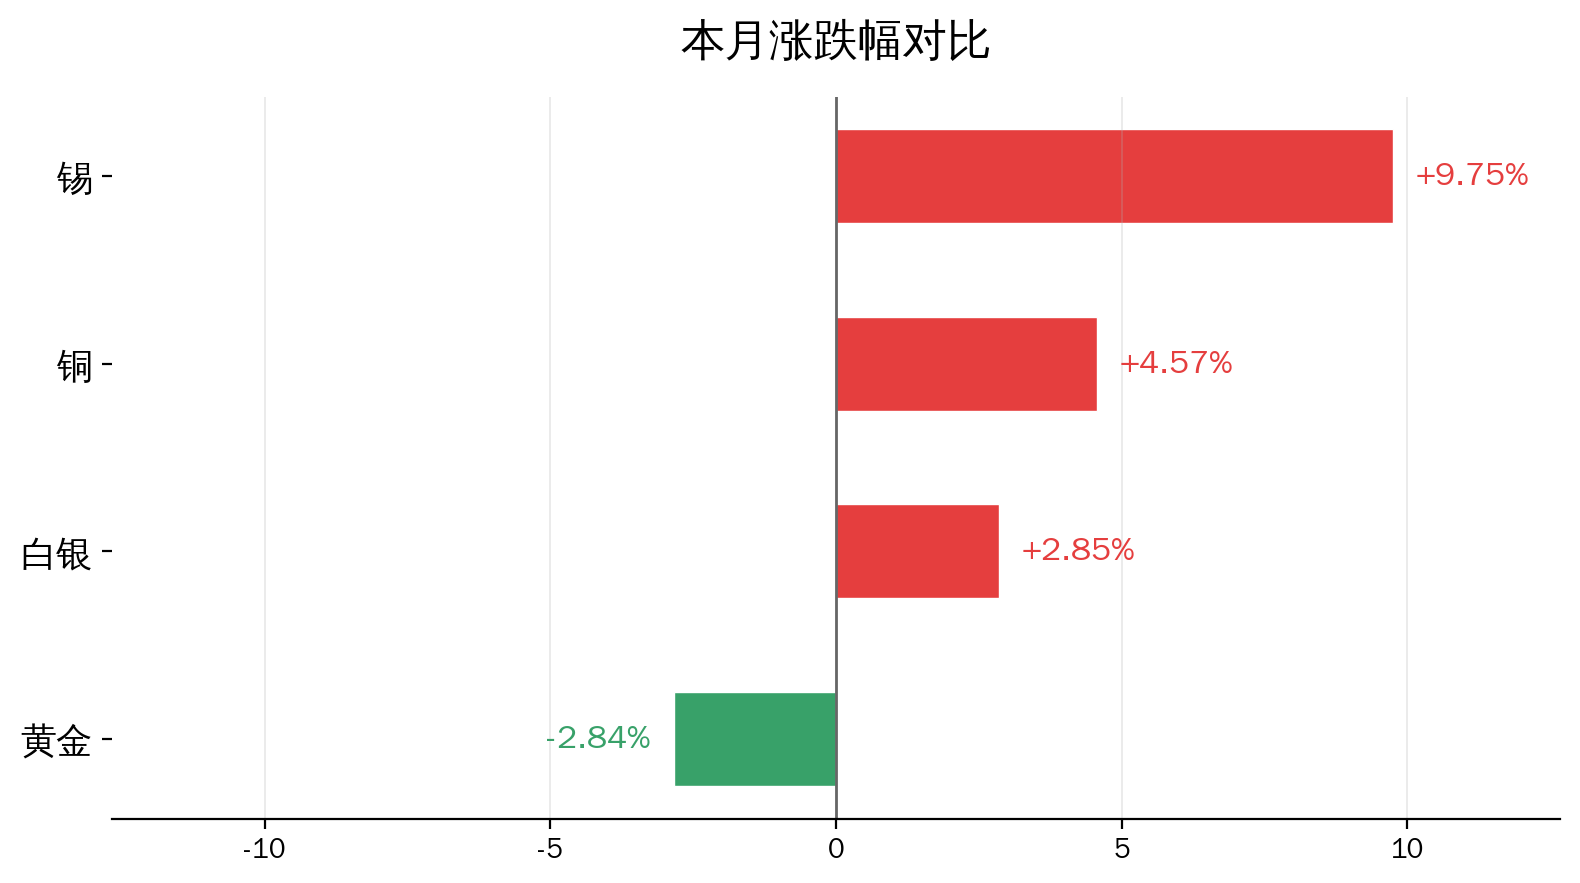
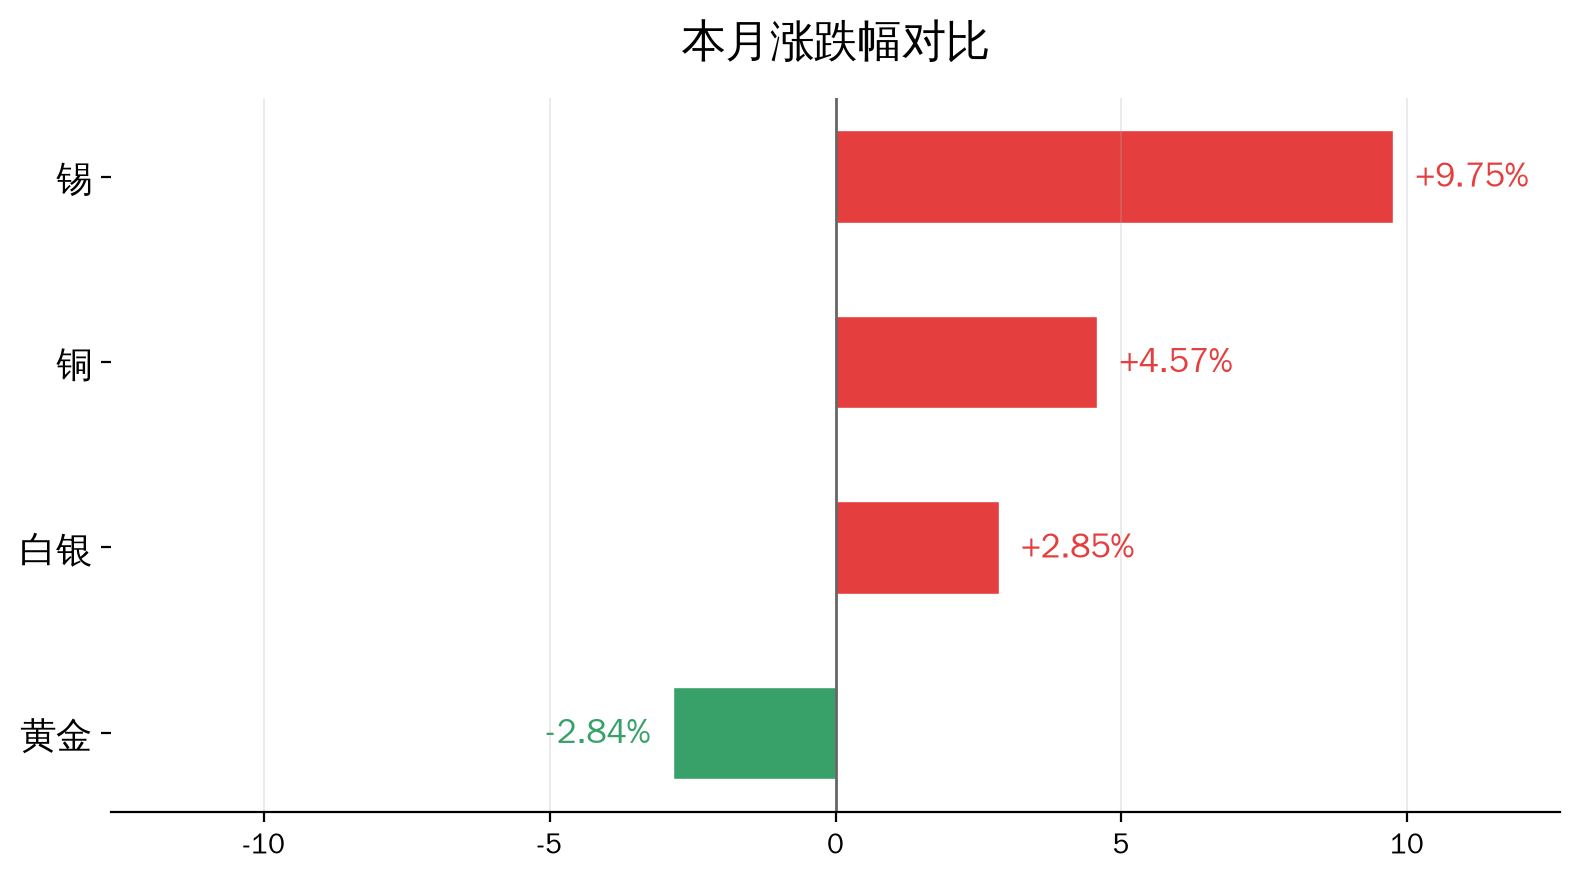
部署：自动生成金属价格月报 5a9f08dca1e5f4bec3376745a10cc7e1e554aabc

diff --git a/reports/2026-05/index.html b/reports/2026-05/index.html
@@ -318,7 +318,7 @@
         <div class="icon">🪙</div>
         <h1>金银铜锡价格月报</h1>
         <div class="month-badge">2026年5月</div>
-        <div class="report-date">报告日期：2026年06月07日</div>
+        <div class="report-date">报告日期：2026年07月01日</div>
     </div>
 
     <!-- 一句话总览 -->
